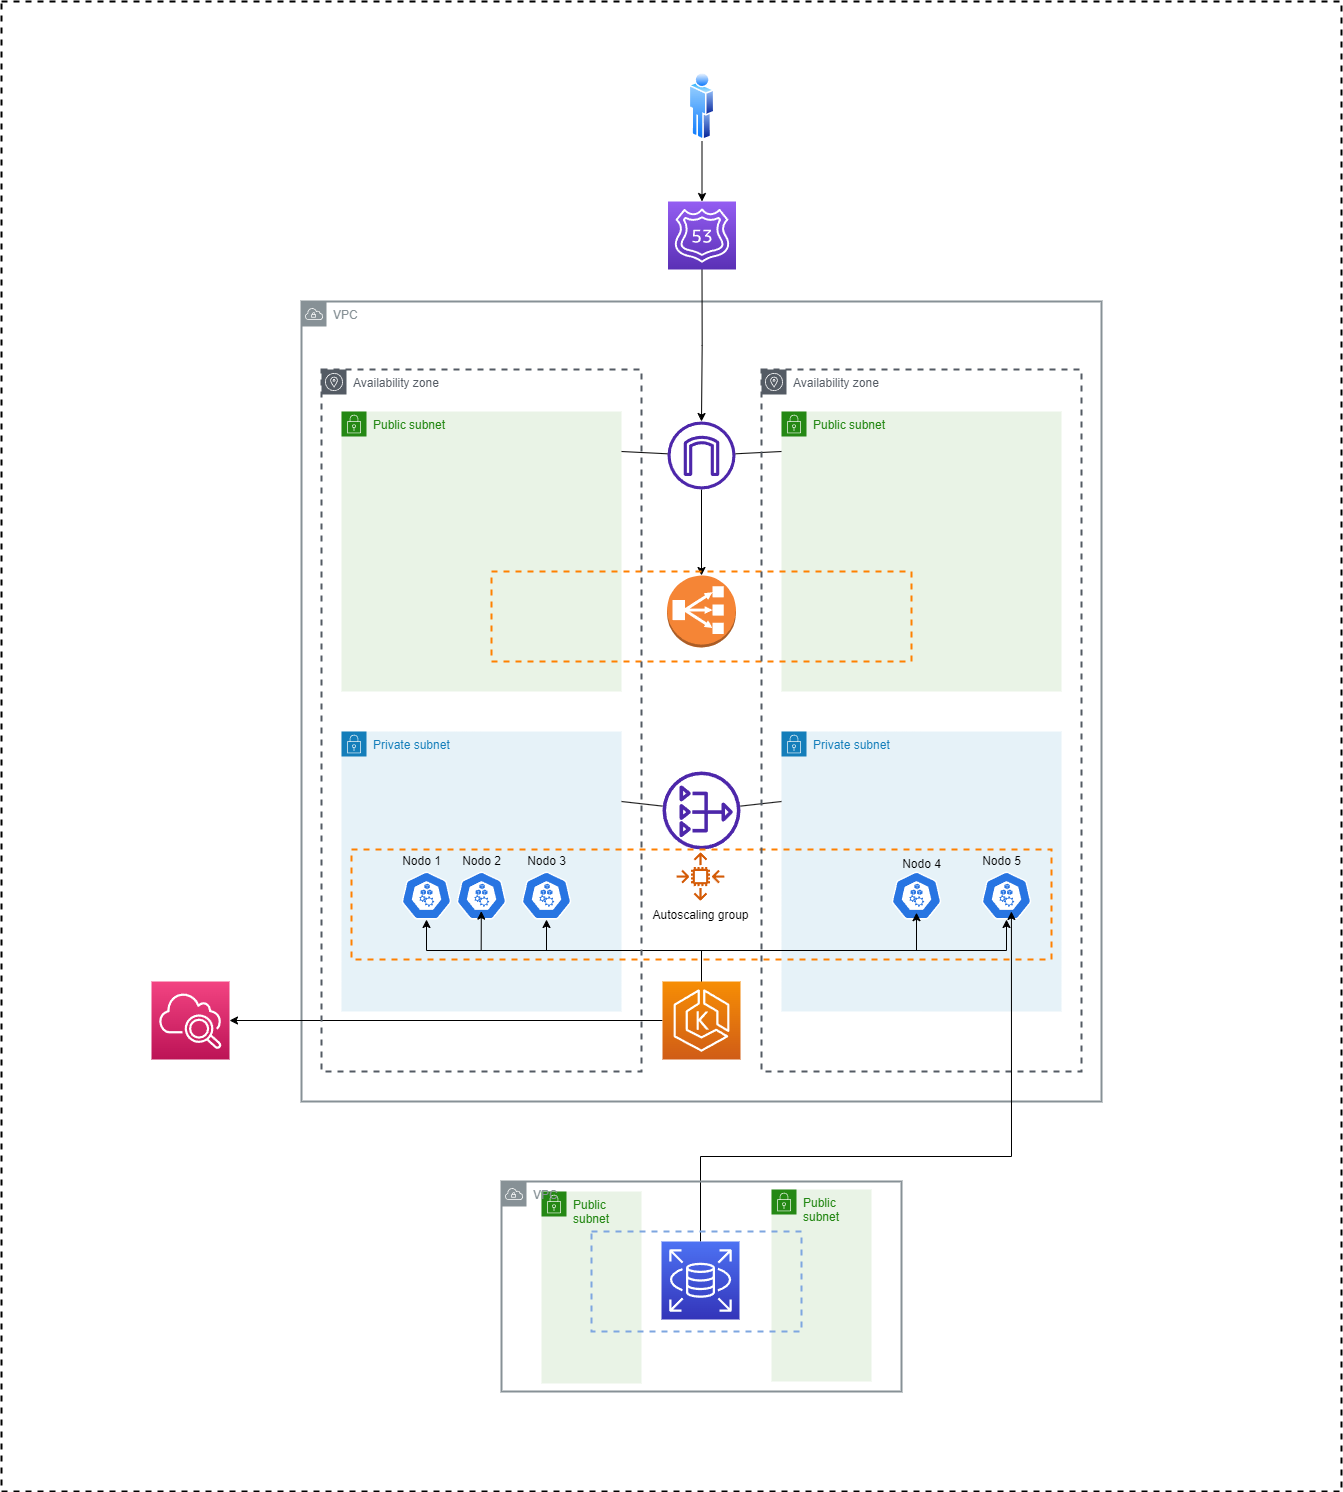
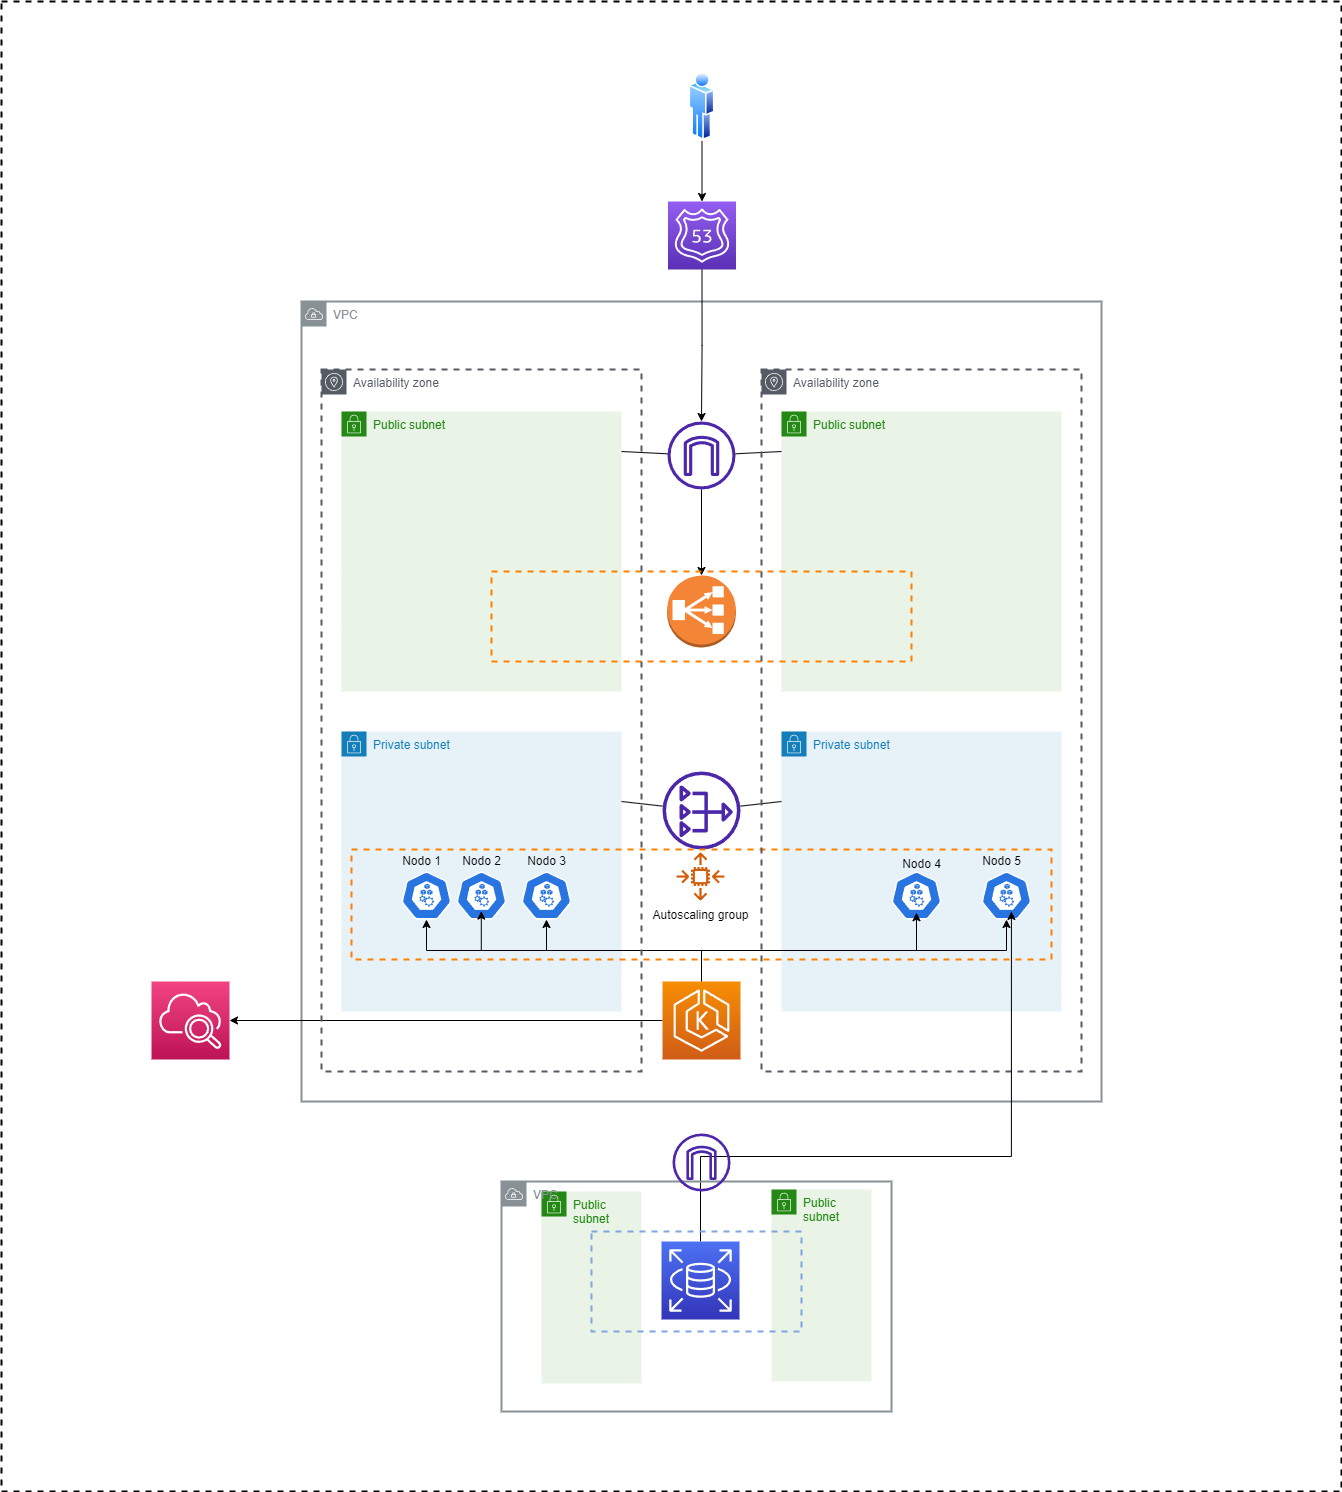
se corrige el diagrama de arqui

diff --git a/README.md b/README.md
@@ -37,7 +37,7 @@ Se requieren de credenciales para AWS, las cuales serán guardadas como secrets 
 # Arquitectura 
 ![alt text](https://github.com/camiloarango96/devops-technical-test/blob/main/arqui.png?raw=true)
 
-Aquí se observa la arquitectura que tendrá la aplicación, en primer lugar esta el dominio, el cual tiene un record de tipo CNAME para apuntar al DNS del Balanceador de carga creado por kubernetes. Para dar acceso a internet al cluster de EKS es necesario crear VPC públicas en 2 zonas de disponibilidad, en mi caso fue en us-east-1a y us-east-1b, estas zonas cuentan con una route table, en la cual se indica que todo el tráfico que reciban, se envía al Internet Gateway, luego se tienen 2 VPC privadas, una en la AZ us-east-1a y la otra en us-east-1b, estas VPC cuentan con una route table en la que se indica que todo el tráfico se debe enviar al NAT Gateway. También se tiene el cluster de EKS, el cual cuenta inicialmente con 2 nodos, pero que puede escalar hasta 5 nodos. En estos nodos se encuentran algunos pods encargados enviar los logs a CloudWatch, pero tambien están los pods de la app de Flask, estos pods específicamente, se conectaran con la base de datos postgres, la cual se encuentra en una VPC aparte.
+Aquí se observa la arquitectura que tendrá la aplicación, en primer lugar esta el dominio, el cual tiene un record de tipo CNAME para apuntar al DNS del Balanceador de carga creado por kubernetes. Para dar acceso a internet al cluster de EKS es necesario crear VPC públicas en 2 zonas de disponibilidad, en mi caso fue en us-east-1a y us-east-1b, estas zonas cuentan con una route table, en la cual se indica que todo el tráfico que reciban, se envía al Internet Gateway, luego se tienen 2 VPC privadas, una en la AZ us-east-1a y la otra en us-east-1b, estas VPC cuentan con una route table en la que se indica que todo el tráfico se debe enviar al NAT Gateway. También se tiene el cluster de EKS, el cual cuenta inicialmente con 2 nodos, pero que puede escalar hasta 5 nodos. En estos nodos se encuentran algunos pods encargados enviar los logs a CloudWatch, pero tambien están los pods de la app de Flask, estos pods específicamente, se conectaran con la base de datos postgres, la cual se encuentra en una VPC aparte, para esta BD se tiene un Intenet Gateway, el cual permite que se puedan hacer conexiones y consultar o insertar infomacion en la tabla .
 
 
 # Pipeline
@@ -62,7 +62,7 @@ En este último paso es necesario habilitar el logging de EKS, una vez se hace e
 
 # Uso de la aplicación
 
-```python
+```
 [GET] flask.olimac.link/getall
 Devuelve todos los registros de la base de datos (id, nombre y dinero)
 
